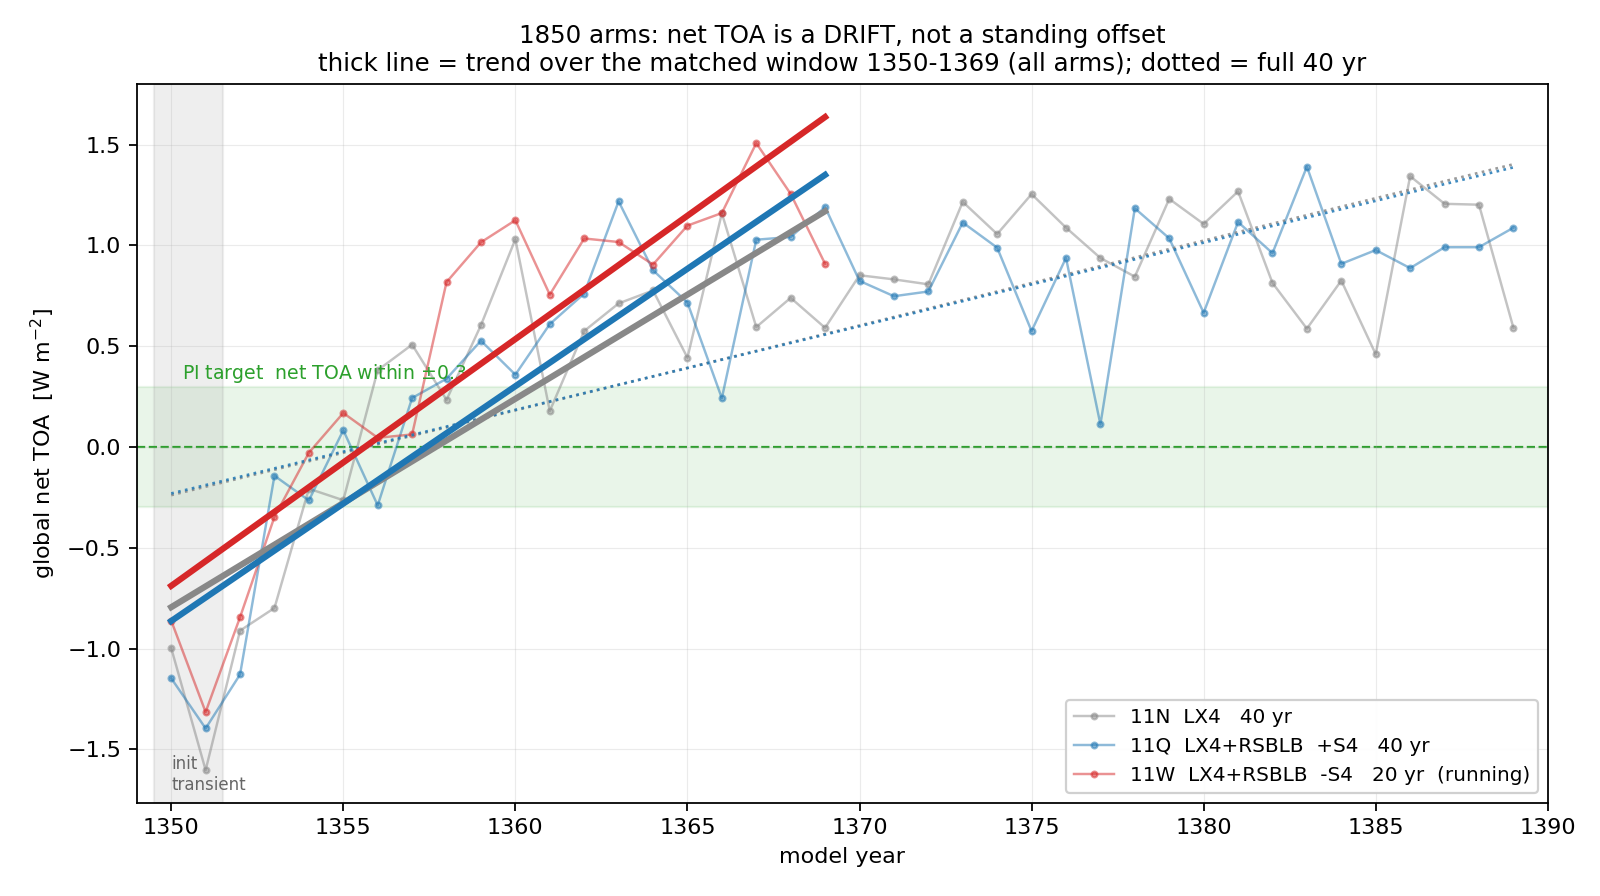
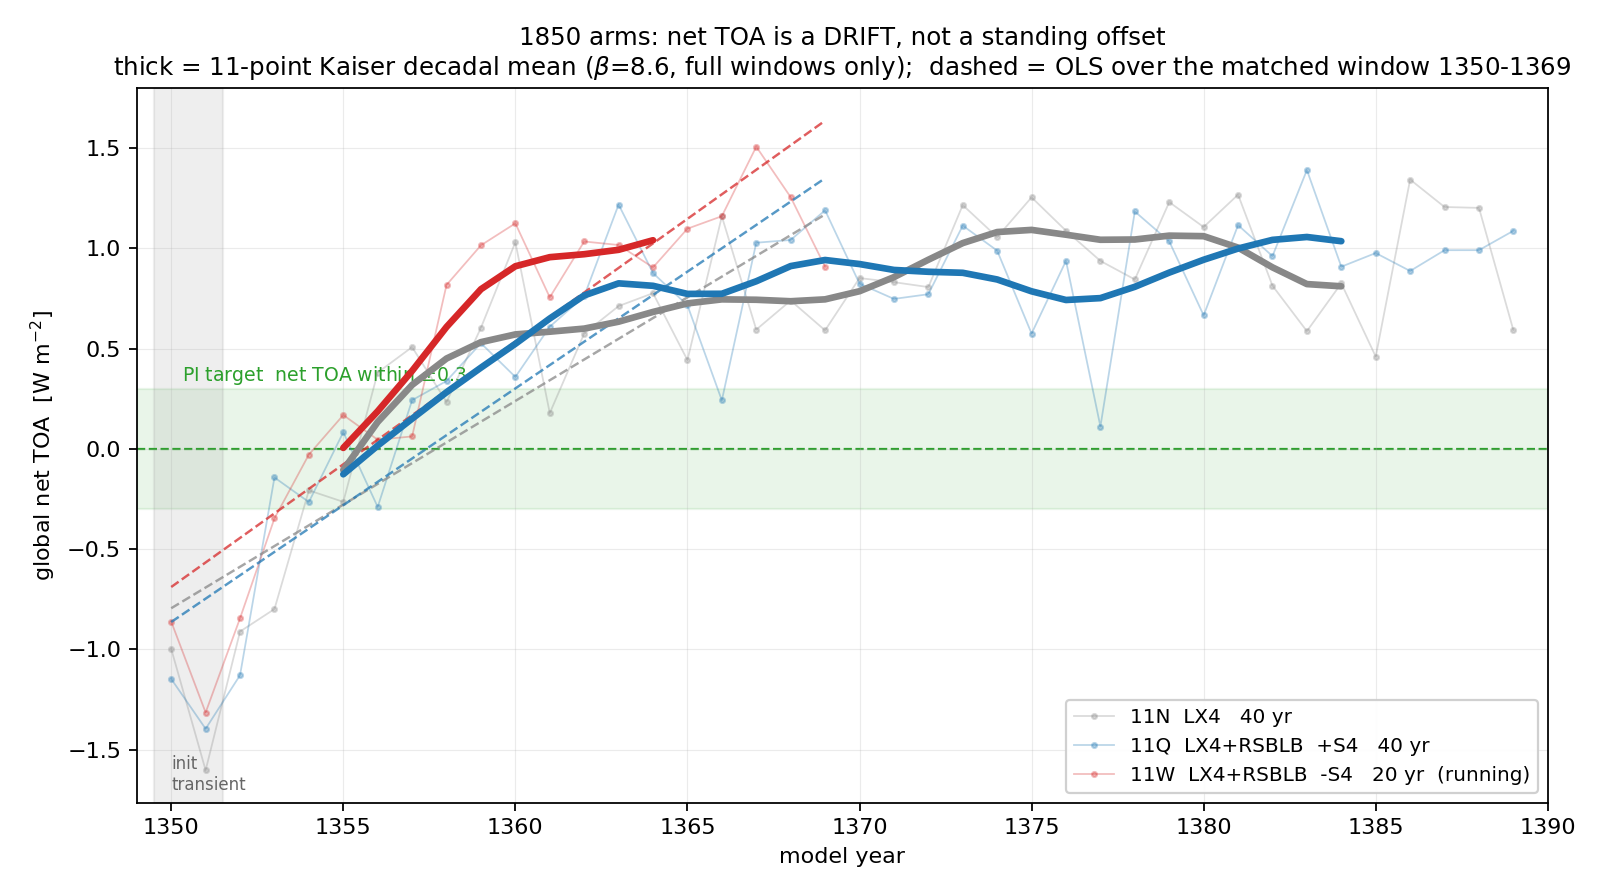
Add a decadal Kaiser mean to the 1850 TOA plot, and it changes the reading
An 11-point Kaiser window, beta 8.6, centred, drawn only where the full window
fits. No padding: on a series drifting this hard a fabricated endpoint lands
exactly where the eye looks for the answer.

The smooth shows the drift is not linear. It rises steeply from 1355 to about
1362 and then flattens near +0.9. Split at the halfway point, 11N goes +1.034
per decade over 1350-69 and -0.033 over 1370-89; 11Q goes +1.165 then +0.144.
Both settle around +0.9 to +1.0. So the campaign's "+1.0 W/m2 over 40 years"
is an approach to a new level, not an unbounded drift, and the single 40-year
OLS slope of +0.42 per decade is a straight line fitted through a curve that
has already stopped rising.

11W's smoothed curve reaches +1.041 by 1364, which is the level the completed
arms plateau at, while 11Q's smooth is near +0.82 at the same year. On the
present evidence removing S4 reaches the same plateau sooner rather than
settling higher, but 11W has not run far enough to separate those.

diff --git a/scripts/analysis/plot_toa_1850_arms.py b/scripts/analysis/plot_toa_1850_arms.py
@@ -19,6 +19,15 @@ Years 1350-51 are an initialisation transient, roughly -1.0 to -1.6 W/m2 in ever
 are shaded.  The campaign's "starts near zero" numbers are the 1352-59 mean and deliberately
 exclude them.
 
+THE DECADAL SMOOTH.  A centred 11-point Kaiser window, beta = 8.6, spanning 10 years either
+side to side.  Kaiser at that beta is close to Blackman: the sidelobes are ~75 dB down, so
+interannual variance does not leak into the smoothed curve and the residual wiggle is
+signal.  It is drawn ONLY where the full window fits, five years in from each end.  No
+reflection or zero-padding: on a series that is drifting this hard, a padded endpoint is
+fabricated and would land exactly where the eye looks for the answer.  That is also why
+the smooth is the honest way to see the slowdown, which is curvature, where a single OLS
+slope over the whole record cannot show it at all.
+
 TRAP.  IFS TOA fluxes are accumulated J/m2 over the output step; divide by 3600 or every
 number is ~3600x too large.  Verified against global ASR 240.4 W/m2.
 """
@@ -81,6 +90,19 @@ MATCH_END = min(lengths)
 ax.axvspan(1349.5, 1351.5, color='#999999', alpha=0.16, zorder=0)
 ax.text(1350.0, -1.72, 'init\ntransient', fontsize=7.5, color='#666666', va='bottom')
 
+KAISER_N, KAISER_BETA = 11, 8.6
+
+def kaiser_smooth(v, n=KAISER_N, beta=KAISER_BETA):
+    """Centred Kaiser-weighted running mean; returns NaN where the window overhangs."""
+    w = np.kaiser(n, beta)
+    w /= w.sum()
+    out = np.full(len(v), np.nan)
+    h = n // 2
+    for i in range(h, len(v) - h):
+        out[i] = float(np.dot(v[i - h:i + h + 1], w))
+    return out
+
+
 def fit(x, v):
     b, a = np.polyfit(x, v, 1)
     res = v - (a + b * x)
@@ -100,23 +122,25 @@ for label, root, col, ls in ARMS:
     if not len(ys):
         continue
     partial = len(ys) < 40
-    ax.plot(ys, v, color=col, lw=1.1, alpha=0.5, marker='o', ms=2.6,
+    ax.plot(ys, v, color=col, lw=0.8, alpha=0.30, marker='o', ms=2.2,
             label=f'{label}   {len(ys)} yr' + ('  (running)' if partial else ''))
+    sm = kaiser_smooth(v)
+    ax.plot(ys, sm, color=col, lw=3.0, zorder=5, solid_capstyle='round')
     m = ys <= MATCH_END
     a, b, se = fit(ys[m], v[m])
-    ax.plot(ys[m], a + b * ys[m], color=col, lw=2.8, zorder=4)
+    ax.plot(ys[m], a + b * ys[m], color=col, lw=1.1, ls='--', alpha=0.75, zorder=4)
     full = (np.nan, np.nan)
     if not partial:
-        a2, b2, se2 = fit(ys, v)
-        ax.plot(ys, a2 + b2 * ys, color=col, lw=1.2, ls=':', alpha=0.85, zorder=3)
+        _, b2, se2 = fit(ys, v)
         full = (b2 * 10, se2 * 10)
     e = (ys >= 1352) & (ys <= 1359)
     summary.append((label, len(ys), v[e].mean(), b * 10, se * 10, full, partial))
 
 ax.set_xlabel('model year'); ax.set_ylabel('global net TOA  [W m$^{-2}$]')
 ax.set_title(f'1850 arms: net TOA is a DRIFT, not a standing offset\n'
-             f'thick line = trend over the matched window 1350-{MATCH_END} (all arms); '
-             f'dotted = full 40 yr', fontsize=11)
+             f'thick = {KAISER_N}-point Kaiser decadal mean ($\\beta$={KAISER_BETA}, '
+             f'full windows only);  dashed = OLS over the matched window 1350-{MATCH_END}',
+             fontsize=11)
 ax.legend(loc='lower right', fontsize=9, framealpha=0.92)
 ax.grid(alpha=0.25, lw=0.5)
 ax.set_xlim(1349, 1390)
